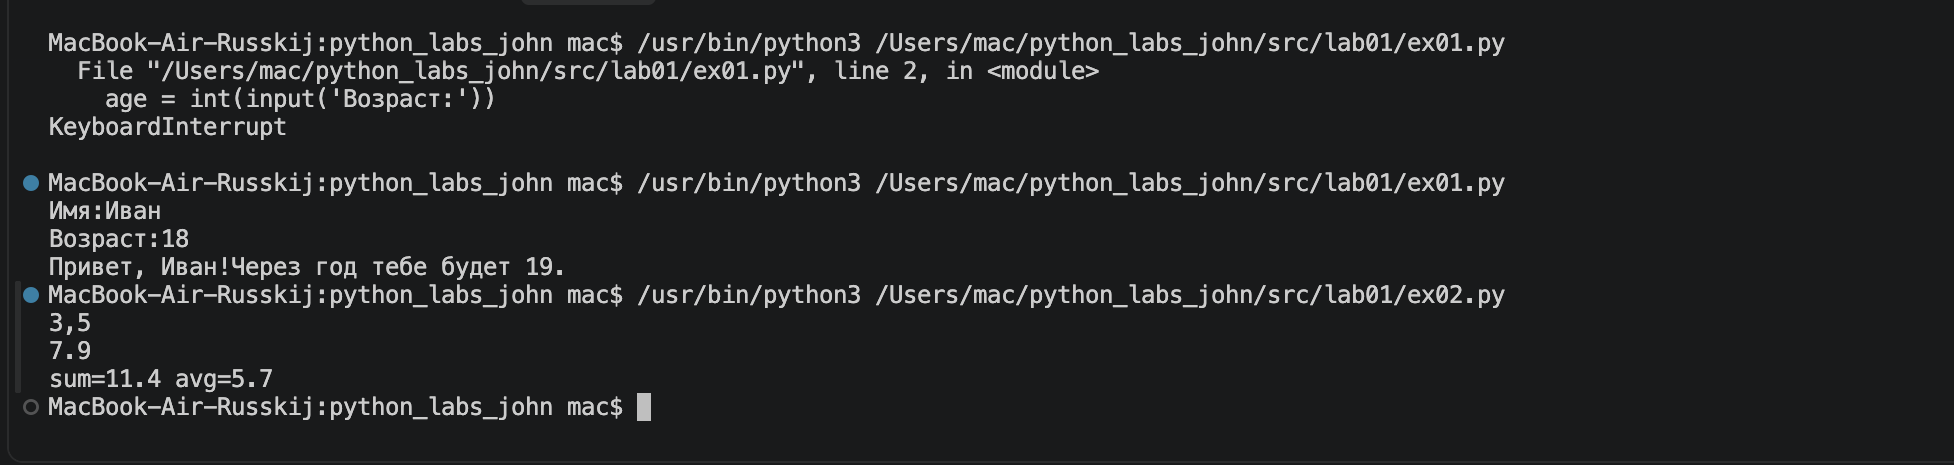
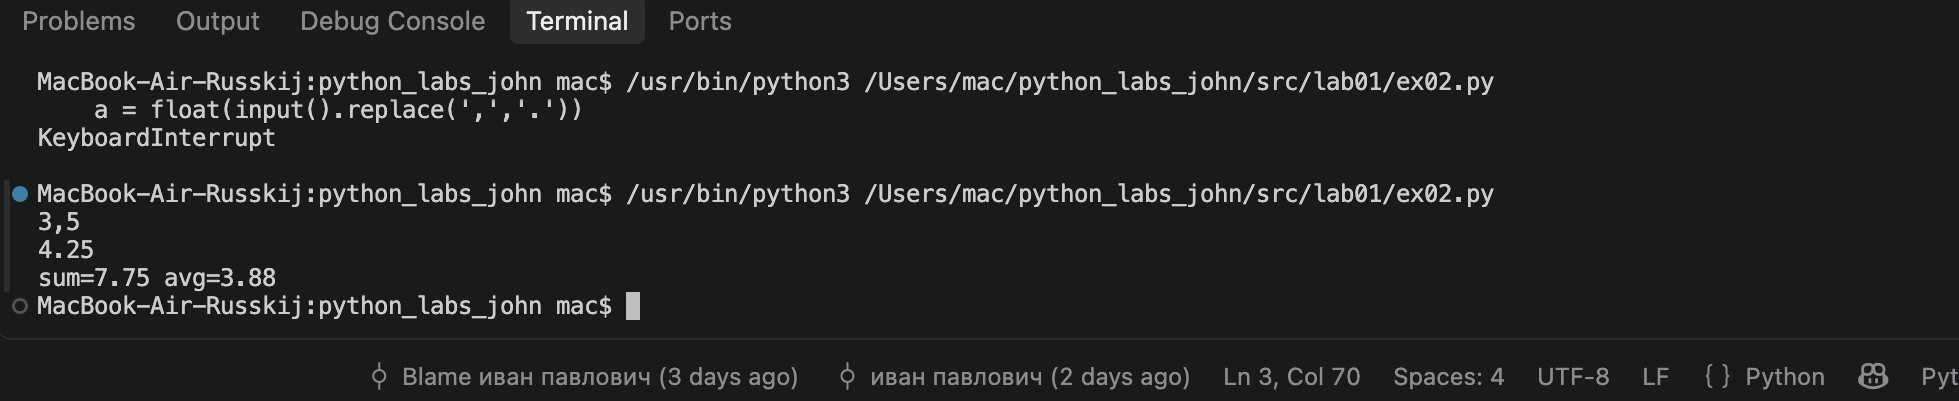
python_labs_john

Changed region(s): [[0.0, 0.3292, 1.0, 0.9875], [0.0, 0.0299, 0.7805, 0.2993]]

diff --git a/src/lab01/README.md b/src/lab01/README.md
@@ -1,9 +1,8 @@
 # ЛР1 ввод/вывод
 ### №1
 ![](https://github.com/IvanRusskiy/python_labs_john/blob/8de173ce0974f6e60efd27c9dace965581336fab/images/lab01/ex01.png)
-
 ### №2
-![](https://github.com/IvanRusskiy/python_labs_john/blob/8de173ce0974f6e60efd27c9dace965581336fab/images/lab01/ex02.png)
+![]()
 ### №3
 ![](https://github.com/IvanRusskiy/python_labs_john/blob/8de173ce0974f6e60efd27c9dace965581336fab/images/lab01/ex03.png)
 ### №4
